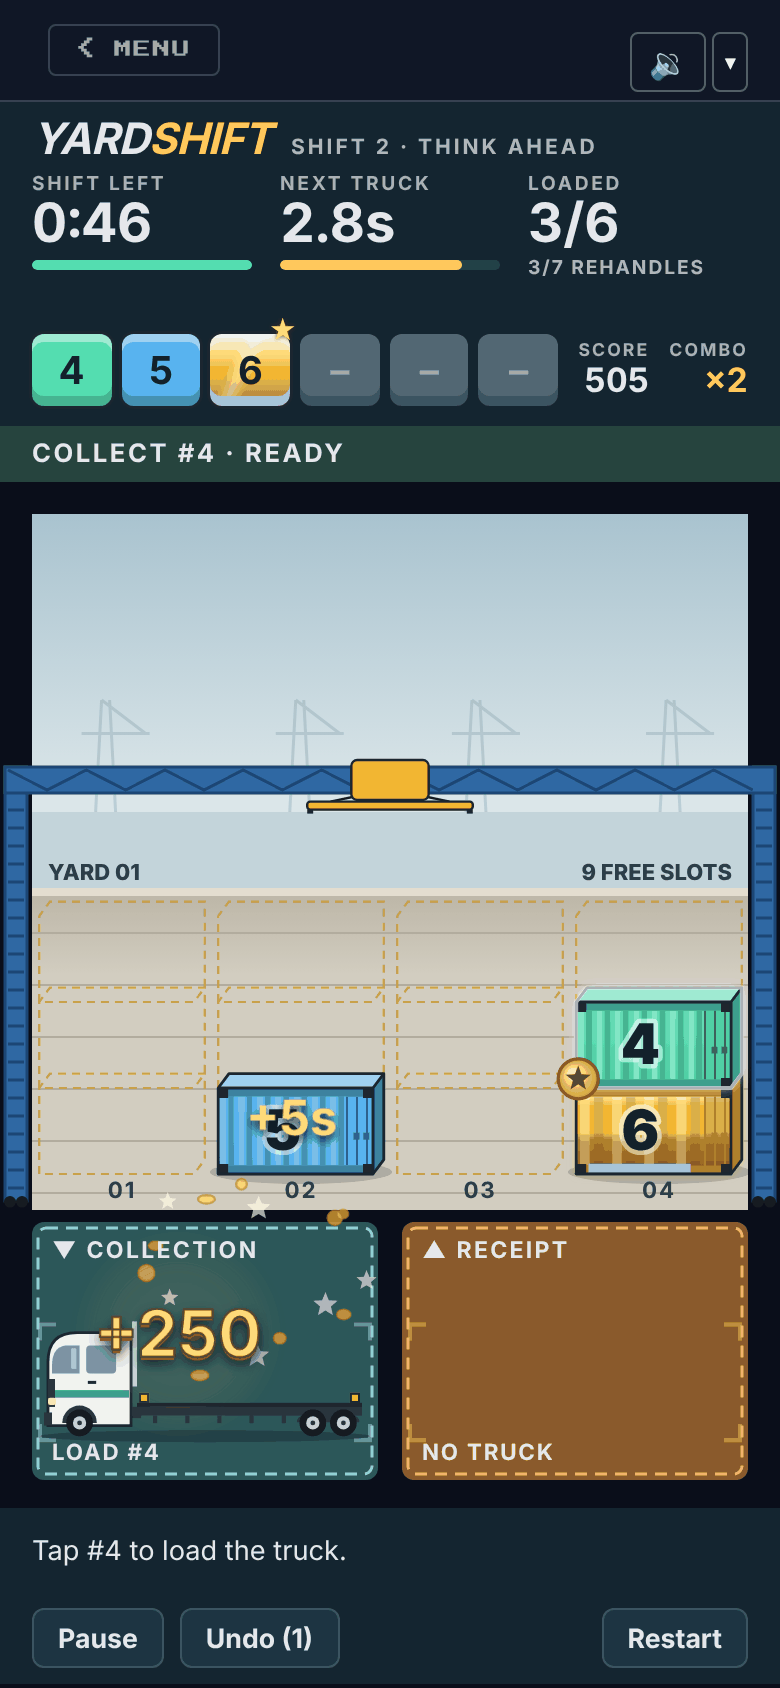
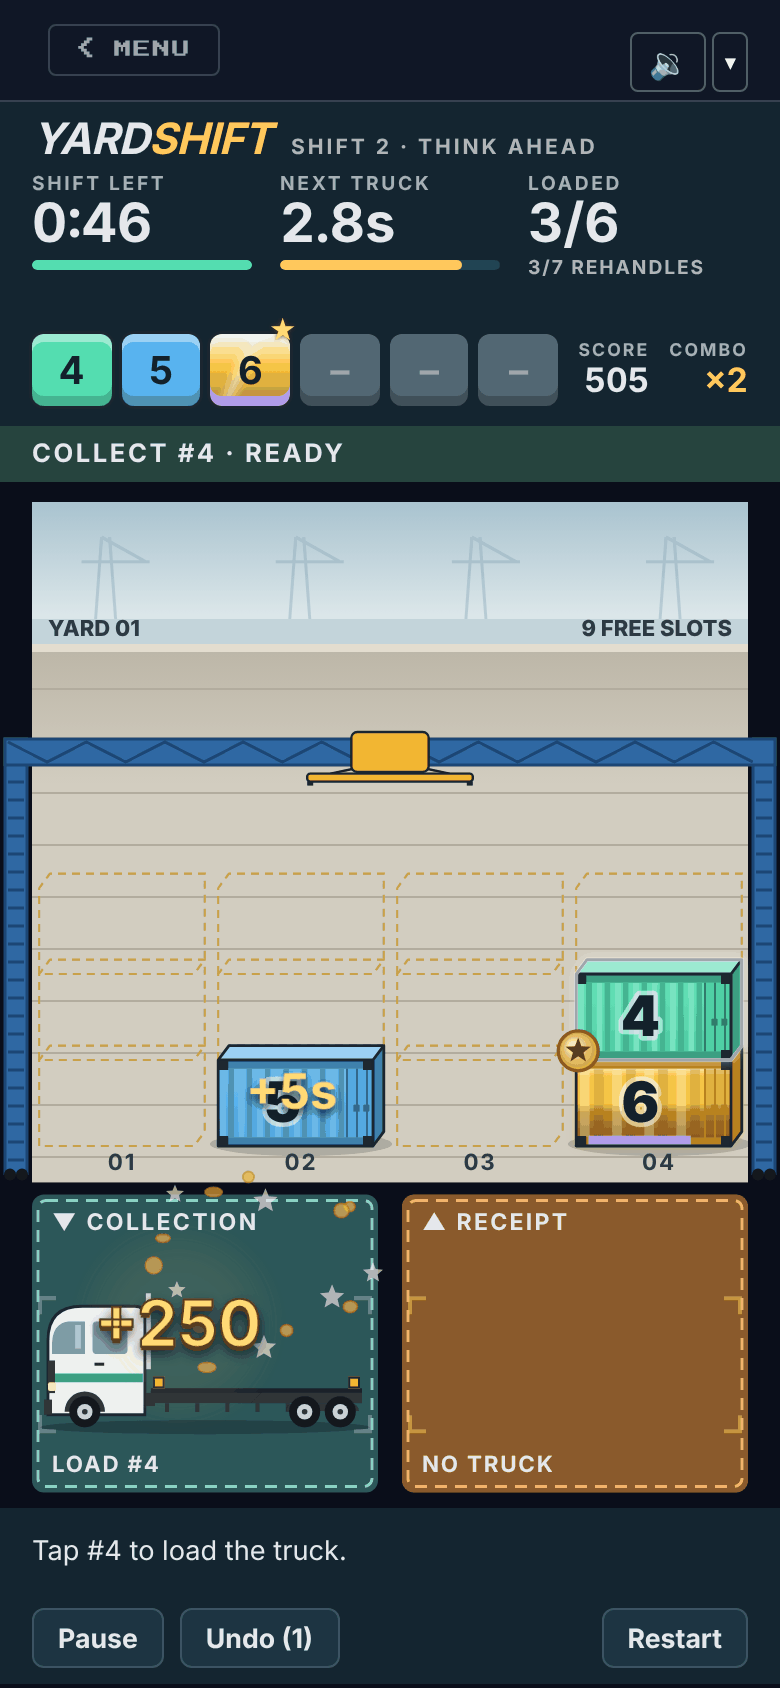
Yardshift art pass 4: no dark gaps, sky capped at 22 % of the yard, spare height to bays then concrete, bigger trucks
Claude-Session: https://claude.ai/code/session_0155BNjwPfcnFQSyZNLHGLyJ

Changed region(s): [[0.0, 0.3389, 1.0, 0.8934], [0.0308, 0.2773, 0.9538, 0.3081], [0.2769, 0.2156, 0.3692, 0.2464]]

diff --git a/src/sims/yardshift/modules/presentation.ts b/src/sims/yardshift/modules/presentation.ts
@@ -59,33 +59,30 @@ const BAY_GAP = 12
 
 /** Share of the surface the truck bays take when the layout knows the capacity (art pass 3: 20 to 24 %). */
 export const BAY_SHARE = 0.22
+/** Most of the surface the bays grow to when a tall phone leaves height over. */
+export const MAX_BAY_SHARE = 0.3
 
 /**
  * Screen layout of the play surface: the yard band with one column per stack, and the two truck bays below. With the
  * `capacity` (art pass 3), the yard is exactly as tall as full stacks plus crane headroom need (`yardFit`, boxes sized
- * from the column width), the bays take `BAY_SHARE`, and height left on a tall phone goes first to the sky strip (up
- * to a fifth of the yard) and then centres the play area. Without it the bays take their usual share under a yard
+ * from the column width), the bays take `BAY_SHARE`, and height left on a tall phone goes to the bays first (up to
+ * `MAX_BAY_SHARE`), then to the yard's concrete headroom. Without it the bays take their usual share under a yard
  * that fills the rest.
  */
 export function layoutFor(stackCount: number, vp: Viewport, capacity?: number): Layout {
   const innerW = Math.max(0, vp.width - 2 * SIDE)
-  let yardTop = Math.round(vp.height * 0.02)
-  let bayBottom = Math.max(yardTop, vp.height - 8)
+  const yardTop = Math.round(vp.height * 0.02)
+  const bayBottom = Math.max(yardTop, vp.height - 8)
   // The yard is the hero (playtest fix 8): the bays take a fixed share under it, with a small gap.
   let bayH = Math.round(Math.min(vp.height * 0.25, Math.max(84, vp.height * 0.24)))
   if (capacity !== undefined && stackCount > 0) {
     const total = bayBottom - yardTop
     bayH = Math.round(Math.min(total * 0.26, Math.max(84, total * BAY_SHARE)))
     const fit = yardFit(innerW / stackCount, capacity, total - bayH - 6)
-    // Height over on a tall phone: the bays grow to 26 %, then the quiet sky strip to 45 % of the fitted yard, and
-    // only what is left centres the play area.
-    const grow = Math.max(0, Math.min(Math.round(total * 0.26) - bayH, total - bayH - 6 - fit.h))
-    bayH += grow
-    const spare = Math.max(0, total - bayH - 6 - fit.h)
-    const sky = Math.min(spare, Math.round(fit.h * 0.45))
-    const offset = Math.floor((spare - sky) / 2)
-    yardTop += offset
-    bayBottom -= spare - sky - offset
+    // Height over on a tall phone goes to the bays first (their trucks scale up with them) up to `MAX_BAY_SHARE`;
+    // the yard takes the rest, where `yardGeometry` caps the sky and adds concrete headroom. The canvas always fills
+    // the whole play surface: no dark gaps.
+    bayH += Math.max(0, Math.min(Math.round(total * MAX_BAY_SHARE) - bayH, total - bayH - 6 - fit.h))
   }
   const bayTop = Math.max(yardTop, bayBottom - bayH)
   const yardBottom = Math.max(yardTop, bayTop - 6)

diff --git a/src/sims/yardshift/modules/yardGeometry.ts b/src/sims/yardshift/modules/yardGeometry.ts
@@ -63,6 +63,8 @@ export const ASPECT_MAX = 2.4
 export const LIFT = 0.3
 /** The sky strip kept above the gantry beam. */
 export const SKY_MIN = 22
+/** Most of the yard height the sky band takes (art pass 4). */
+export const SKY_SHARE = 0.22
 /** Room between the beam and the top of a carried box, for the spreader. */
 const SPREADER = 8
 
@@ -109,8 +111,9 @@ export function yardGeometry(layout: Layout, capacity: number): YardGeometry {
   // The crane carries a box one box above a full stack; the beam sits just above that, the spreader between.
   const carryY = groundY - (cap + 1) * boxH - 2
   const beamY = Math.floor(carryY - dy - SPREADER - beamH)
-  // The concrete starts just above the top slot; the headroom, beam and sky are the backdrop band.
-  const floorY = Math.round(groundY - cap * boxH - dy - 3)
+  // The sky band is at most `SKY_SHARE` of the yard: the concrete starts just above the top slot, or higher on a tall
+  // yard, so spare height becomes concrete headroom rather than empty sky.
+  const floorY = Math.round(Math.min(groundY - cap * boxH - dy - 3, Math.max(yard.y + SKY_MIN, yard.y + yard.h * SKY_SHARE)))
   const backdrop = { x: yard.x, y: yard.y, w: yard.w, h: floorY - yard.y }
   const floor = { x: yard.x, y: floorY, w: yard.w, h: yard.y + yard.h - floorY }
   const legW = Math.max(6, Math.min(12, yard.x - 4))
@@ -161,7 +164,7 @@ export interface Truck {
 export const BAY_TITLE_PX = 24
 export const BAY_STATUS_PX = 20
 /** A truck's container may be drawn up to this much larger than a yard container. */
-export const MAX_CARGO_SCALE = 1.4
+export const MAX_CARGO_SCALE = 1.6
 
 /**
  * The truck drawn in a bay: a tractor cab at one end (the right end when facing right, where the receipt arrow,
@@ -174,7 +177,7 @@ export function truckIn(bay: Rect, g: YardGeometry, facing: 'left' | 'right' = '
   const bottom = bay.y + bay.h - BAY_STATUS_PX
   const h = Math.max(12, bottom - top)
   // The truck fills most of the bay width (art pass 3), led by the cab; its height follows from the cab and cargo.
-  const cabW = Math.max(20, Math.min(72, bay.w * 0.24, h * 0.8))
+  const cabW = Math.max(20, Math.min(72, bay.w * 0.28, h * 0.8))
   const cabH = Math.max(14, Math.min(h * 0.92, cabW * 1.12))
   const wheelR = Math.max(3.5, Math.min(12, cabW * 0.16))
   const beamH = Math.max(4, wheelR * 0.95)

diff --git a/src/sims/yardshift/modules/yardGeometry.test.ts b/src/sims/yardshift/modules/yardGeometry.test.ts
@@ -39,8 +39,8 @@ describe('Yardshift 2D yard geometry', () => {
         for (const level of LEVELS) {
           const layout = layoutFor(level.stacks.length, vp, level.capacity)
           const g = yardGeometry(layout, level.capacity)
-          const stacksH = level.capacity * g.boxH
-          expect(stacksH / (g.groundY - g.floor.y), `level ${level.number}`).toBeGreaterThan(0.85)
+          // The sky band is at most about a fifth of the yard; spare height is concrete headroom, not sky.
+          expect(g.backdrop.h, `level ${level.number}`).toBeLessThanOrEqual(layout.yard.h * 0.22 + 1)
           // A carried box clears a full stack, and the beam sits just above it (spreader room only).
           const fullTop = g.groundY - level.capacity * g.boxH
           expect(g.carryY + g.boxH).toBeLessThanOrEqual(fullTop)
@@ -70,8 +70,6 @@ describe('Yardshift 2D yard geometry', () => {
           expect(g.backdrop.y + g.backdrop.h).toBe(g.floor.y)
           expect(g.groundY).toBeGreaterThan(g.floor.y)
           expect(g.groundY).toBeLessThan(layout.yard.y + layout.yard.h)
-          // The backdrop band holds the sky strip, the beam and the crane headroom.
-          expect(g.backdrop.h).toBeGreaterThan(g.boxH)
           // Container shaped (art pass 3): a side-on box 1.8 to 2.4 times as long as tall, that fills its column unless
           // the room is short, when it narrows to keep its shape instead of flattening.
           const aspect = g.boxW / g.boxH

diff --git a/src/sims/yardshift/modules/playtestFixes.test.ts b/src/sims/yardshift/modules/playtestFixes.test.ts
@@ -75,9 +75,10 @@ describe('Yardshift playtest fixes', () => {
       const fit = layoutFor(4, vp, 3)
       expect(fit.collection.y - (fit.yard.y + fit.yard.h)).toBeLessThanOrEqual(8)
       expect(fit.collection.h).toBeGreaterThanOrEqual(Math.min(84, vp.height * 0.2) - 1)
-      expect(fit.collection.h).toBeLessThanOrEqual(Math.max(84, vp.height * 0.26) + 1)
-      expect(fit.yard.y).toBeGreaterThanOrEqual(0)
-      expect(fit.collection.y + fit.collection.h).toBeLessThanOrEqual(vp.height)
+      expect(fit.collection.h).toBeLessThanOrEqual(Math.max(84, vp.height * 0.3) + 1)
+      // No dark gaps: the yard starts at the top margin and the bays end at the bottom margin.
+      expect(fit.yard.y).toBe(l.yard.y)
+      expect(fit.collection.y + fit.collection.h).toBe(l.collection.y + l.collection.h)
     }
   })
 })

diff --git a/src/sims/yardshift/yardshift-AGENTS.md b/src/sims/yardshift/yardshift-AGENTS.md
@@ -47,22 +47,22 @@ and crane frames, and a backing store scaled by `devicePixelRatio` (capped at 3)
   top rise 0.08), as tall as `ASPECT_MIN` 1.8:1 allows (`boxHFor`); a short room narrows a box rather than flattening
   it past `ASPECT_MAX` 2.4. The stacks need full capacity plus one box of crane headroom (a carried box, `carryY`,
   clears a full stack); the gantry beam (`beamHFor`) sits just above that with spreader room only, under a sky strip
-  of at least `SKY_MIN`. The concrete floor starts just above the top slot, so the backdrop band (sky, beam,
-  headroom) never leaves bare concrete. `yardFit(colW, capacity, maxH)` gives the box height and the yard that fits it
+  of at least `SKY_MIN`. The sky band is at most `SKY_SHARE` (22 %) of the yard: the concrete starts just above the
+  top slot, or higher on a tall yard, so spare height becomes concrete headroom, never a tall empty sky. `yardFit(colW, capacity, maxH)` gives the box height and the yard that fits it
   exactly. Each bay's truck (`truckIn(bay, geo, facing)`): tractor cab at the end it faces (the receipt truck faces
   right with its cab under `arrowBox`, the collection truck faces left), a heavy skeletal trailer, three axles, cargo
-  a yard box scaled up to `MAX_CARGO_SCALE` 1.4, the whole truck filling most of the bay width and centred
+  a yard box scaled up to `MAX_CARGO_SCALE` 1.6, the cab up to 28 % of the bay width, the whole truck filling most of the bay width and centred
   vertically between the bay title and status rows. `boxAt(geo, layout, stack, tier, lift)` is a container's box;
   `boxBounds` its whole drawn area. `modules/yardGeometry.test.ts` proves, for every level and five surfaces, that
   every slot (the top one lifted too) lies inside its own column hit region and under the beam, the box aspect stays
-  1.8 to 2.4 (under 1.9 on a phone), full stacks take over 85 % of the concrete, the carried box clears a full stack
+  1.8 to 2.4 (under 1.9 on a phone), the sky band is at most 22 % of the yard, the carried box clears a full stack
   and the beam sits within 10 px above it, the legs touch no column, and each truck (both facings) lies inside its
   bay, fills most of its width, is vertically centred, has its cab ahead of the trailer and its wheels on the road,
   with the cargo on the trailer and the arrow over the receipt cab, clear of the cargo.
 - `layoutFor(stackCount, viewport, capacity)` (`present` passes the capacity): the bays take `BAY_SHARE` (22 %, at
   least 84 px) of the surface and the yard exactly what `yardFit` needs. Height left on a tall phone goes first to the
-  bays (up to 26 %), then to the sky strip (up to 45 % of the fitted yard), and the rest centres the play area in the
-  surface. Hit regions still come from the layout only. Without the capacity the bays take their old share.
+  bays (up to `MAX_BAY_SHARE`, 30 %; the trucks scale with them), then to the yard's concrete headroom. The canvas
+  always fills the whole play surface: no dark gaps (`playtestFixes.test.ts`). Hit regions still come from the layout only. Without the capacity the bays take their old share.
 - `modules/yardEffects.ts` (pure, `yardEffects.test.ts`): every render-only effect as a function of time.
   `urgencyStyle(container, current, reducedMotion)`: the current container on a calm turn (risk at `FOCUS_BASE_RISK`)
   glows with a breathing white outline; once the next-truck clock is low it vibrates (`vibrateX`: horizontal only,
